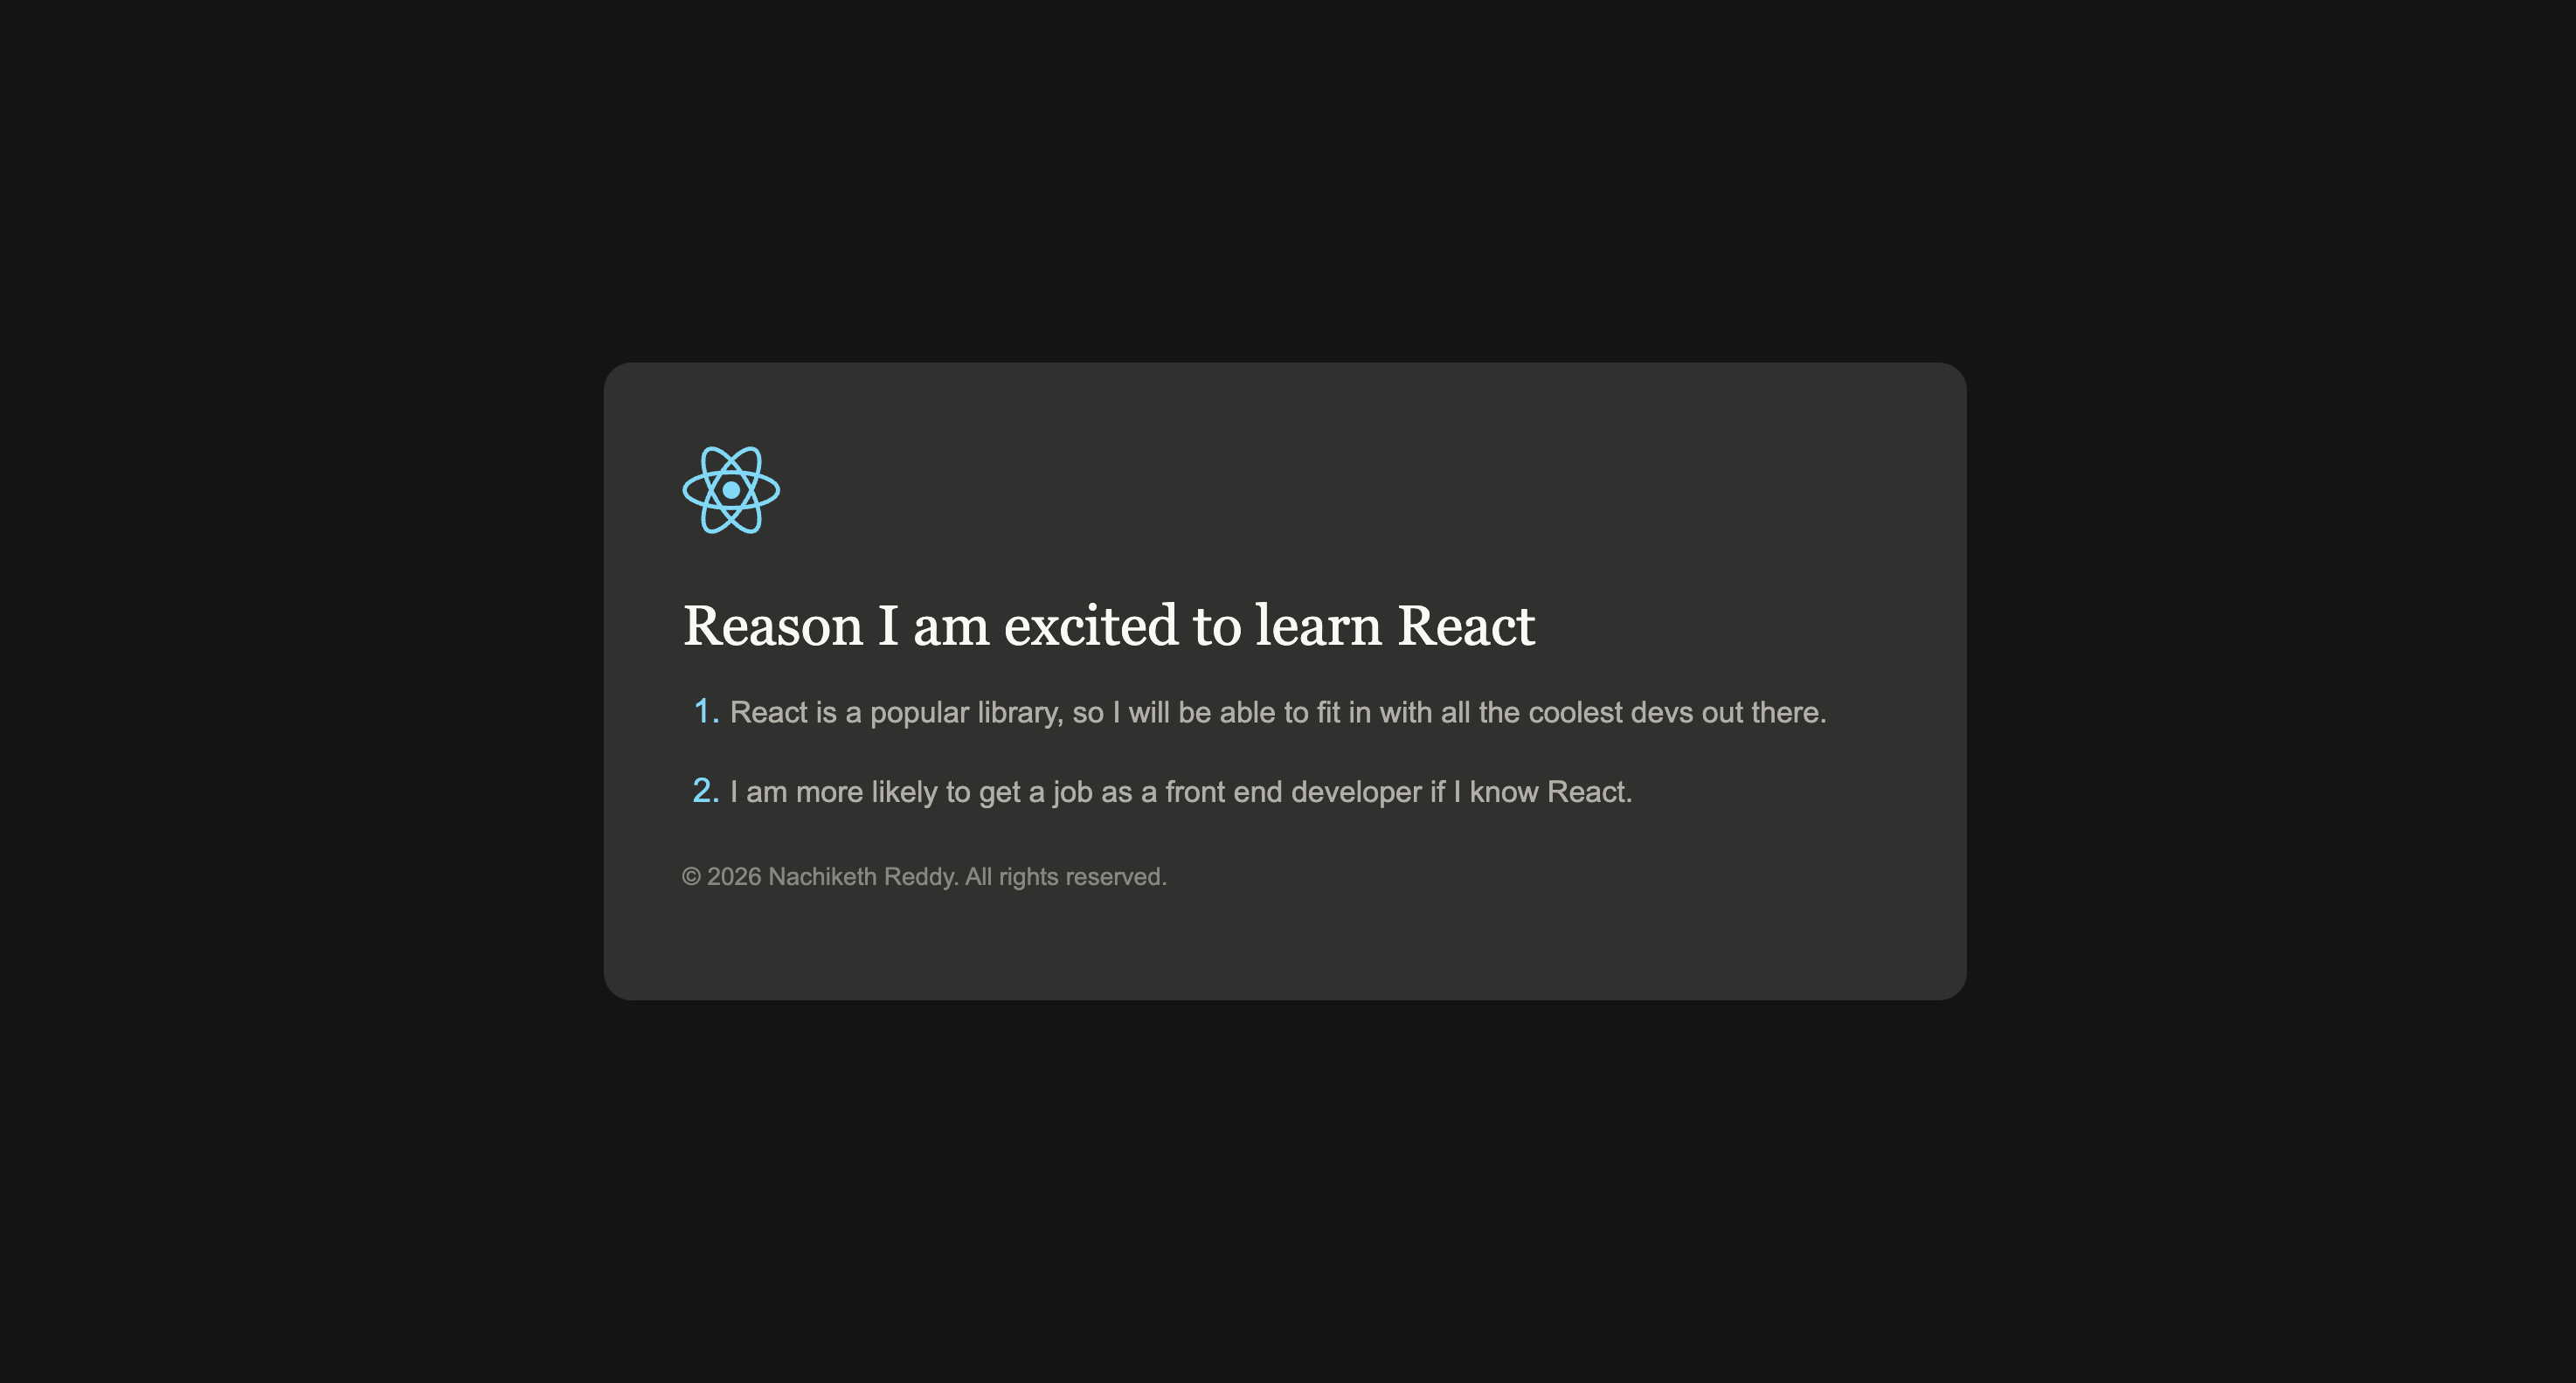
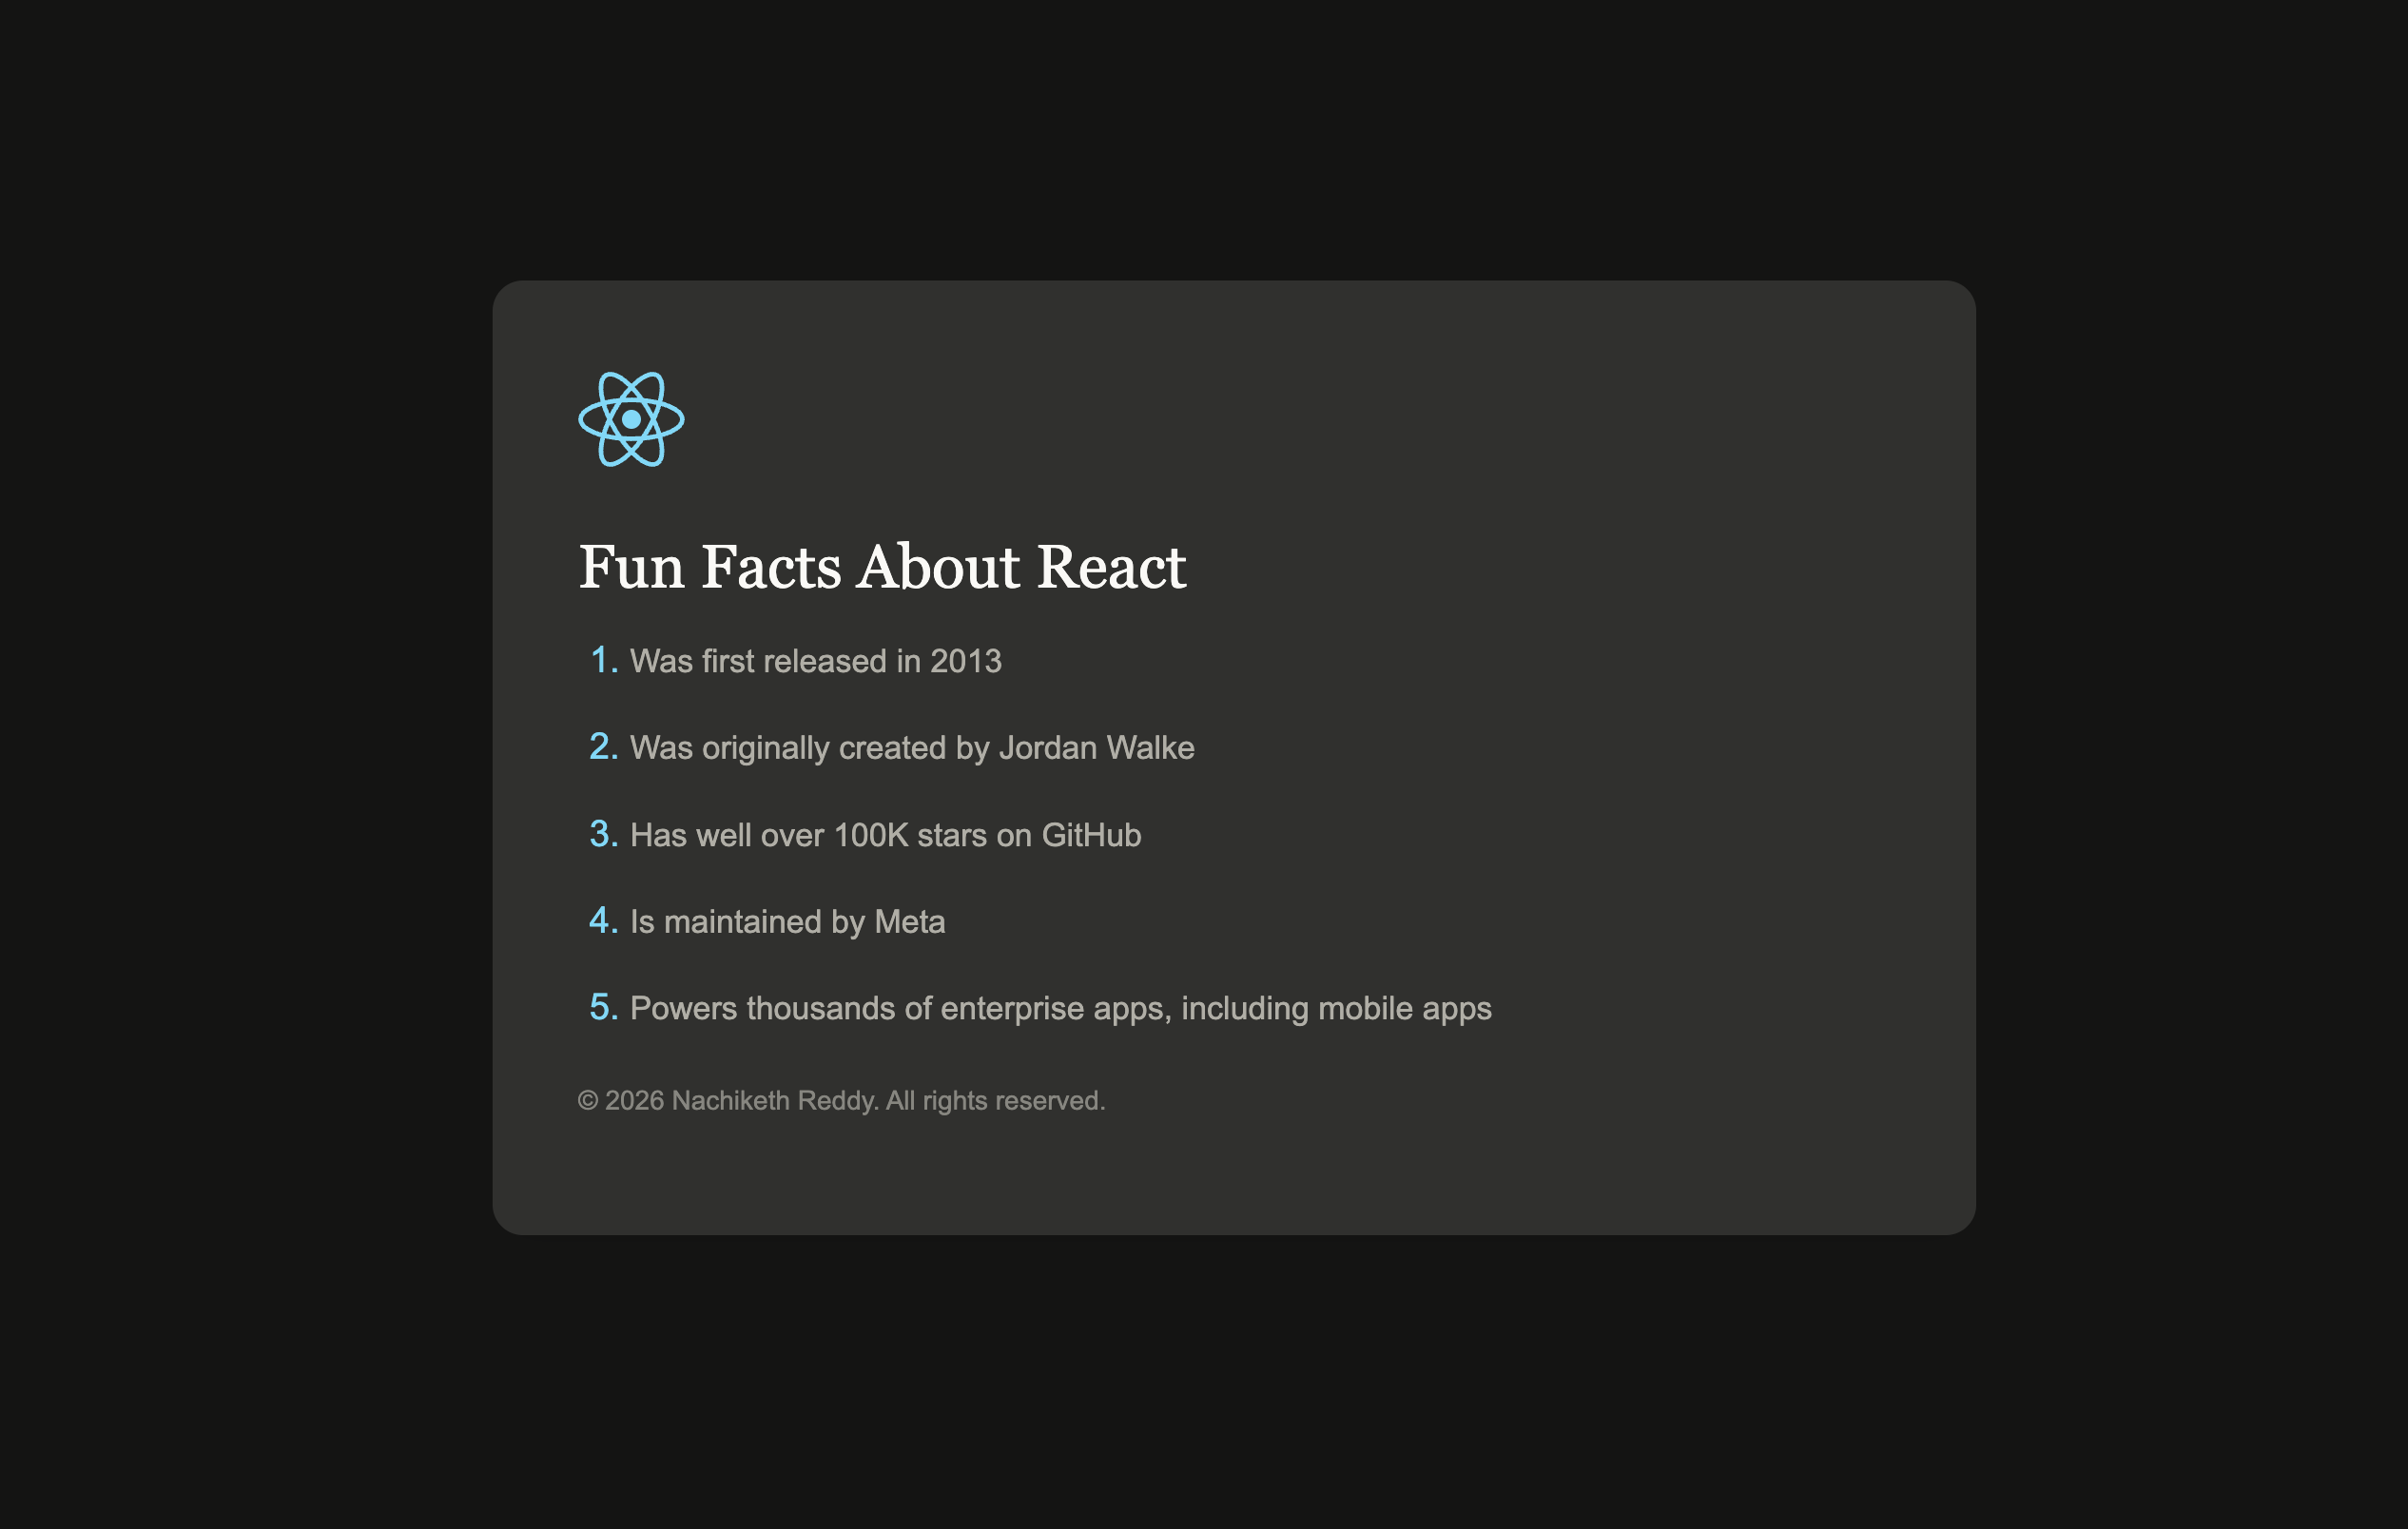
Changed the content as per the exersise!

Changed region(s): [[0.1872, 0.1857, 0.8424, 0.8048]]

diff --git a/src/ReactFacts.jsx b/src/ReactFacts.jsx
@@ -10,14 +10,17 @@ const ReactFacts = () => {
           className="facts-logo"
         />
 
-        <h1>Reason I am excited to learn React</h1>
+        <h1>Fun Facts About React</h1>
 
         <ol className="facts-list">
-          <li>React is a popular library, so I will be able to fit in with all the coolest devs out there.</li>
-          <li>I am more likely to get a job as a front end developer if I know React.</li>
+          <li>Was first released in 2013 </li>
+          <li>Was originally created by Jordan Walke</li>
+          <li>Has well over 100K stars on GitHub</li>
+          <li>Is maintained by Meta</li>
+          <li>Powers thousands of enterprise apps, including mobile apps</li>
         </ol>
 
-        <p className="facts-footer">&copy; 2026 Nachiketh Reddy. All ri!@ghts reserved.</p>
+        <p className="facts-footer">&copy; 2026 Nachiketh Reddy. All rights reserved.</p>
       </section>
     </main>
   );